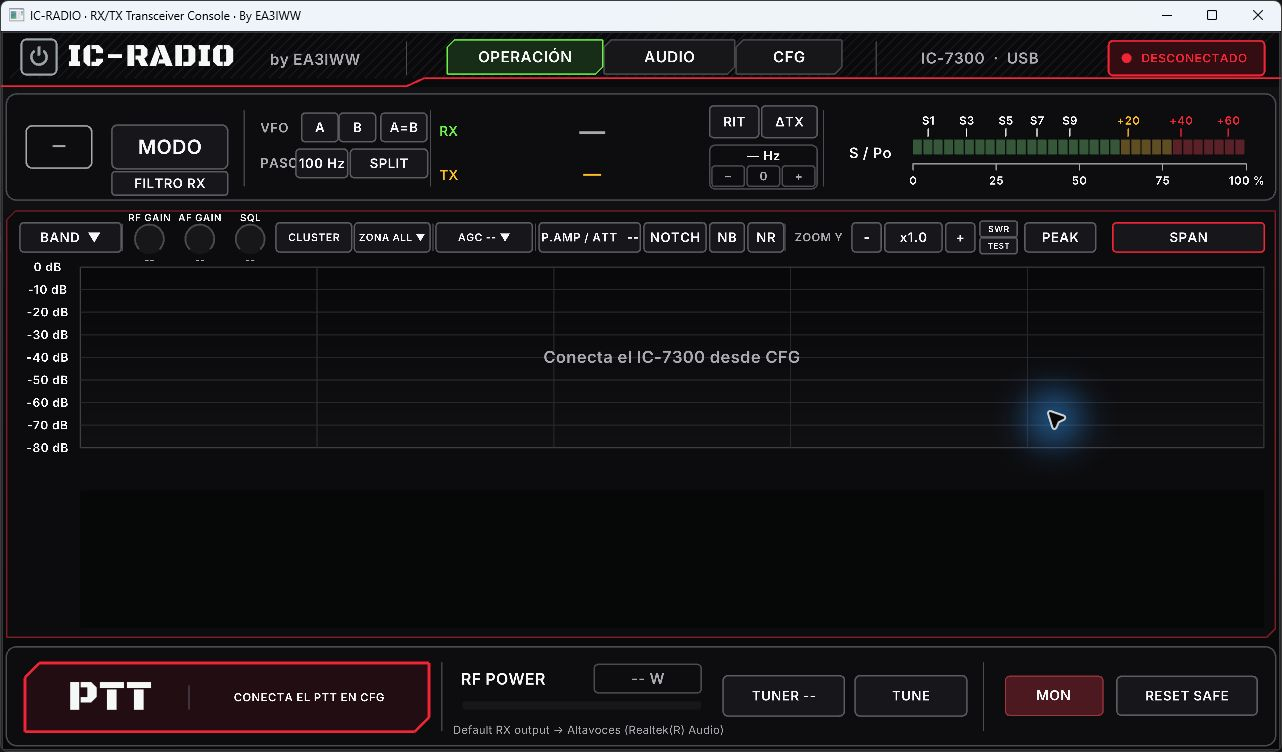
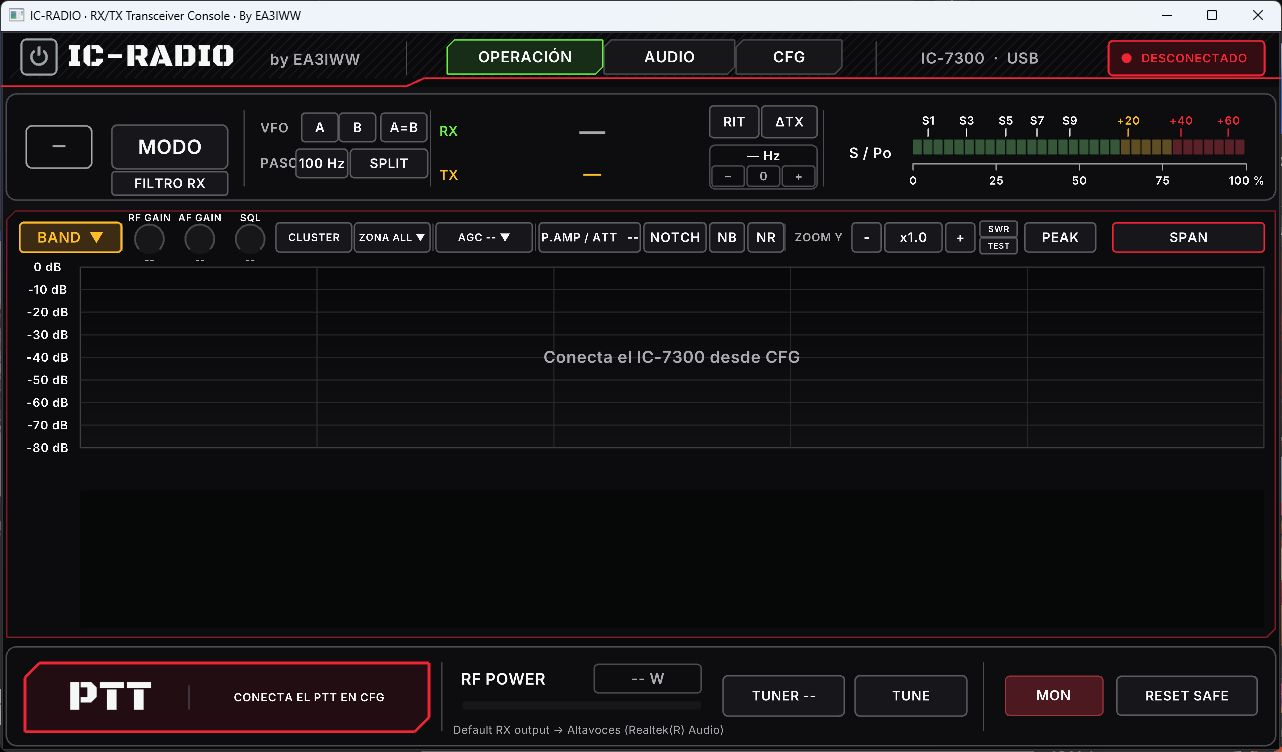
Release IC-RADIO v0.13.2 with highlighted band selector

diff --git a/cmd/ic-mic/band_selector.go b/cmd/ic-mic/band_selector.go
@@ -155,7 +155,14 @@ func (a *app) drawBandButton(state civ.State, online bool) {
 	if i := a.radio.coverageBand(state.Frequency); online && i >= 0 && time.Since(state.FrequencyAt) < 2*time.Second {
 		label += " " + radioBands[i].name
 	}
-	drawConsoleButton(bandControl(), label+"  ▼", a.radio.bands.open, false)
+	rect := bandControl()
+	fill, shade := rl.NewColor(62, 43, 20, 255), color.amber
+	if a.radio.bands.open {
+		fill, shade = color.amber, color.bg
+	}
+	rl.DrawRectangleRounded(rect, .22, 8, fill)
+	rl.DrawRectangleRoundedLinesEx(rect, .22, 8, 2, color.amber)
+	drawConsoleText(semiboldFont, label+"  ▼", rect, 22, shade)
 }
 
 func (a *app) drawBandPanel(state civ.State) {

diff --git a/RELEASE_NOTES.md b/RELEASE_NOTES.md
@@ -1,12 +1,12 @@
-# IC-RADIO v0.13.1
+# IC-RADIO v0.13.2
 
 IC-RADIO is dedicated to local USB CI-V control and server-based remote control of the Icom IC-7300 and IC-7300MK2. The remote server runs on the same Windows PC.
 
-## Highlights
+## Changes
 
-- Display the radio's spectrum reference level (REF) in dB when CI-V reports a current value. The trace uses the sweep supplied by the radio, which already incorporates its reference setting.
-- Keep the separate TX marker from appearing during ordinary wheel tuning when the confirmed RX and TX frequencies are the same and SPLIT is off.
+- The BAND selector now uses an amber border and text, and fills in amber when its menu is open.
+- Updated the Operation screenshot to show the selector.
 
 ## Download
 
-Extract `IC-RADIO-Windows-x64-v0.13.1.zip` and run `ic-radio.exe`. For server mode, use the included `ic-radio-server.exe` on the same PC. Keep the `runtime` folder beside both executables.
+Extract `IC-RADIO-Windows-x64-v0.13.2.zip` and run `ic-radio.exe`. For server mode, use the included `ic-radio-server.exe` on the same PC. Keep the `runtime` folder beside both executables.

diff --git a/README.md b/README.md
@@ -2,7 +2,7 @@
 
 IC-RADIO is a Windows console dedicated to local and remote control of the Icom IC-7300 and IC-7300MK2. It combines USB CI-V radio control, real-time RX/TX audio processing, and PTT over RTS or DTR. Local mode connects directly over USB. Remote mode uses the included server on the same Windows PC via loopback.
 
-![IC-RADIO Operation view showing the CLUSTER and ZONA controls](assets/screenshots/ic-radio-interface.png)
+![IC-RADIO Operation view showing the amber BAND selector and the CLUSTER and ZONA controls](assets/screenshots/ic-radio-interface.png)
 
 ![IC-RADIO Audio view showing TX routing, meters, and filters](assets/screenshots/ic-radio-audio.jpg)
 
